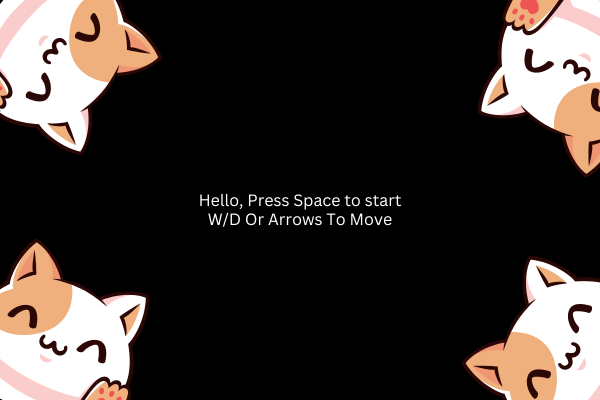
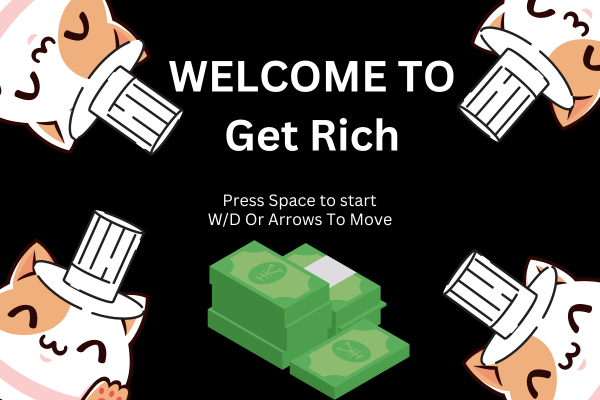
Add files via upload

diff --git a/MyWorld.java b/MyWorld.java
@@ -1,22 +1,22 @@
-import greenfoot.*;  // (World, Actor, GreenfootImage, Greenfoot and MouseInfo)
-
+import greenfoot.*;  
 public class MyWorld extends World
 {
-    private int timer = 0;
-    private int spawnInterval = 80; // Time
-    private int points;
-    private static final int GROUND_HEIGHT = 5;
-    
-    public MyWorld()
+    private int timer = 8; // Everytime money is spawned.
+    private int spawnInterval = 80; // Max Time
+    private int points; // Points that appear on scoreboard
+    private static final int GROUND_HEIGHT = 5; // Final ground height for ground class.
+    GreenfootSound bg = new GreenfootSound("backgroundMusic.wav"); // Background Music
+    public MyWorld() // basic setup for MyWorld()
     {    
-        super(612, 408, 1); //612, 408
-        Player richKid = new Player();
-        addObject(richKid, 200, 330);
-        prepare();
-        Greenfoot.setSpeed(50);
-        createGround();
+        super(612, 408, 1); // Constructs world
+        Player richKid = new Player(); // Spawns in Player Object
+        addObject(richKid, 200, 330); // Spawns in Player
+        prepare(); // Calls prepare which adds the counter class.
+        Greenfoot.setSpeed(50); // Speed game is meant to be played at.
+        createGround(); // Creates ground object.
+        bgMusic();
         
-        addObject(new Ground(), getWidth() / 2, getHeight() - 5); // Adjust the y-coordinate as needed
+        addObject(new Ground(), getWidth() / 2, getHeight() - 5); // Location of ground
     }
 
     public void act()
@@ -25,26 +25,26 @@ public class MyWorld extends World
         checkGameOver();
     }
     
-    public void spawnMoney()
+    public void spawnMoney() // Spawns Money Object
     {
-        if (timer >= spawnInterval)
+        if (timer >= spawnInterval) // Money 
         {
             Money money = new Money(this);
             addObject(money, Greenfoot.getRandomNumber(getWidth()), 0);
             timer = 0;
         }
-        else
+        else // Adds to the timer
         {
             timer++;
         }
         
-        if (timer == 30)
+        if (timer == 30) // Spawns TwoDollar Object
         {
             TwoDollar twoDollar = new TwoDollar(this);
             addObject(twoDollar, Greenfoot.getRandomNumber(getWidth()), 0);
         }
         
-        if (timer == 70)
+        if (timer == 70) // Spawns badDollar Object
         {
             BadDollar badDollar = new BadDollar(this);
             addObject(badDollar, Greenfoot.getRandomNumber(getWidth()), 0);
@@ -68,6 +68,7 @@ public class MyWorld extends World
         if (getScore() <= -1) 
         {
             Greenfoot.setWorld(new GameOver());
+            bgStop();
         }
     }
     
@@ -83,5 +84,15 @@ public class MyWorld extends World
     {
         Counter counter = new Counter();
         addObject(counter, 530, 21);
+    }
+    
+    private void bgMusic()
+    {
+        bg.setVolume(30);
+        bg.play();
+    }
+    private void bgStop()
+    {
+        bg.stop();
     }
 }

diff --git a/Money.java b/Money.java
@@ -1,11 +1,10 @@
-import greenfoot.*;  // (World, Actor, GreenfootImage, Greenfoot and MouseInfo)
-
+import greenfoot.*; 
 public class Money extends Actor
 {
     public static final int GRAVITY = 1;
     private int velocity;
     private int points;
-    private MyWorld world;
+    private MyWorld world; // Connects money to world
     
     public Money(MyWorld world) // Basic Setup for money in world
     {
@@ -22,7 +21,7 @@ public class Money extends Actor
         
     }
 
-    public void remove() 
+    public void remove() // Removes money intersecting player and adds score
     {
         if (!getObjectsAtOffset(1, 1, Player.class).isEmpty()) {
             if (this instanceof TwoDollar) 
@@ -31,15 +30,23 @@ public class Money extends Actor
             } 
             else if (this instanceof BadDollar) 
             {
-                world.increaseScore(-10); // Decrease the score by 10 for BadDollar
+                world.increaseScore(-5); // Decrease the score by 10 for BadDollar
             } 
             else 
             {
                 world.increaseScore(1); // Increase the score by 1 for other Money objects
             }
-    
+            
             world.removeObject(this);
+            playKashingSound();
         }
+    }
+    
+    private void playKashingSound() 
+    {
+        GreenfootSound sound = new GreenfootSound("kashing.wav");
+        sound.setVolume(20);
+        sound.play();
     }
     
     public void fall() // gravity for money
@@ -52,7 +59,4 @@ public class Money extends Actor
             velocity = 0;
         }
     }
-    
-    
-    
 }

diff --git a/Player.java b/Player.java
@@ -1,18 +1,11 @@
-import greenfoot.*;  // (World, Actor, GreenfootImage, Greenfoot and MouseInfo)
-
-/**
- * Write a description of class Player here.
- * 
- * @author (your name) 
- * @version (a version number or a date)
- */
+import greenfoot.*;
 public class Player extends Actor
 {
     /**
      * Act - do whatever the Player wants to do. This method is called whenever
      * the 'Act' or 'Run' button gets pressed in the environment.
      */
-    public void act()
+    public void act() // Calls on keys repeatedly
     {
         keys();
     }
@@ -29,14 +22,4 @@ public class Player extends Actor
             move(-15);
         }
     }
-    
-    // public int getLives()
-    // {
-        // return lives;
-    // } 
-    
-    // public void setLives(int heart)
-    // {
-        // lives -= heart;
-    // }
 }

diff --git a/BadDollar.java b/BadDollar.java
@@ -1,11 +1,4 @@
-import greenfoot.*;  // (World, Actor, GreenfootImage, Greenfoot and MouseInfo)
-
-/**
- * Meant to be the BadDollar Class to remove points.
- * 
- * @author (your name) 
- * @version (a version number or a date)
- */
+import greenfoot.*;
 public class BadDollar extends Money
 {
     /**
@@ -13,14 +6,14 @@ public class BadDollar extends Money
      * the 'Act' or 'Run' button gets pressed in the environment.
      */
     
-    public BadDollar(MyWorld world)
+    public BadDollar(MyWorld world) // Basic BadDollar Setup
     {
         super(world);
         GreenfootImage image = getImage();
         setImage(image);
     }
     
-    public void act()
+    public void act() // Uses same act as in Money class.
     {
         super.act();
     }

diff --git a/Ground.java b/Ground.java
@@ -1,20 +1,19 @@
 import greenfoot.*;
-
 public class Ground extends Actor 
 {
-    public Ground()
+    public Ground() // Basic Setup for the ground image
     {
         GreenfootImage image = getImage();
         image.scale(image.getWidth() - 1919, image.getHeight() - 1079);
         setImage(image);
     }
     
-    public void act() 
+    public void act() // calls methods repeatedly 
     {
         removeMoney();
     }
     
-    private void removeMoney() 
+    private void removeMoney() // remove's money on ground
     {
         if (isTouching(Money.class)) 
         {

diff --git a/TwoDollar.java b/TwoDollar.java
@@ -1,8 +1,7 @@
-import greenfoot.*;  // (World, Actor, GreenfootImage, Greenfoot and MouseInfo)
-
+import greenfoot.*;
 public class TwoDollar extends Money
 {
-    public TwoDollar(MyWorld world)
+    public TwoDollar(MyWorld world) // Basic Setup
     {
         super(world);
         GreenfootImage image = getImage();
@@ -10,7 +9,7 @@ public class TwoDollar extends Money
     }
 
     
-    public void act()
+    public void act() // Uses act in Money Class.
     {
         super.act();
     }

diff --git a/GameOver.java b/GameOver.java
@@ -3,7 +3,7 @@ import greenfoot.*;  // (World, Actor, GreenfootImage, Greenfoot and MouseInfo)
 public class GameOver extends World
 {
     private int timer = 0;
-    private static final int LOOP_DELAY = 100; // What it's supposed to count up to.
+    private static final int LOOP_DELAY = 350; // What it's supposed to count up to.
     
     /**
      * Constructor for objects of class GameOver.
